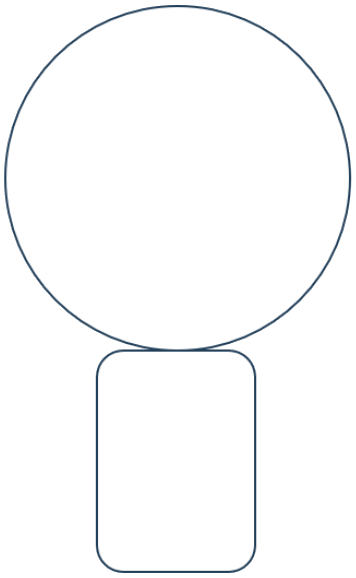
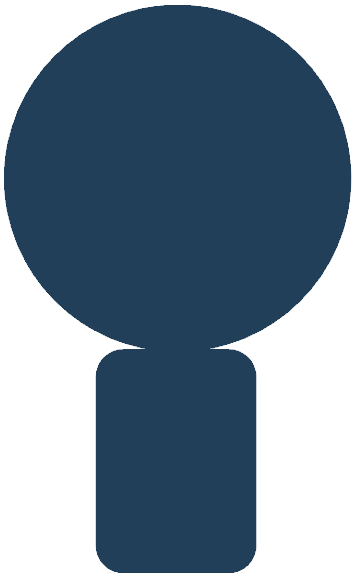
updated orient hint graphic for better visibility

diff --git a/Software/lib/Temperature.py b/Software/lib/Temperature.py
@@ -47,6 +47,5 @@ def temperature_from_reading(reading: int, poly: np.poly1d) -> float:
 	"""Calculate temperature in °C directly from ADC reading (0..65535)."""
 	if not 0 <= reading <= 65535:
 		raise ValueError("reading must be in range 0..65535")
-	resistance = resistance_from_reading(float(reading))
-	return temperature_from_resistance(resistance, poly)
+	return temperature_from_resistance(resistance_from_reading(float(reading)), poly)
 
